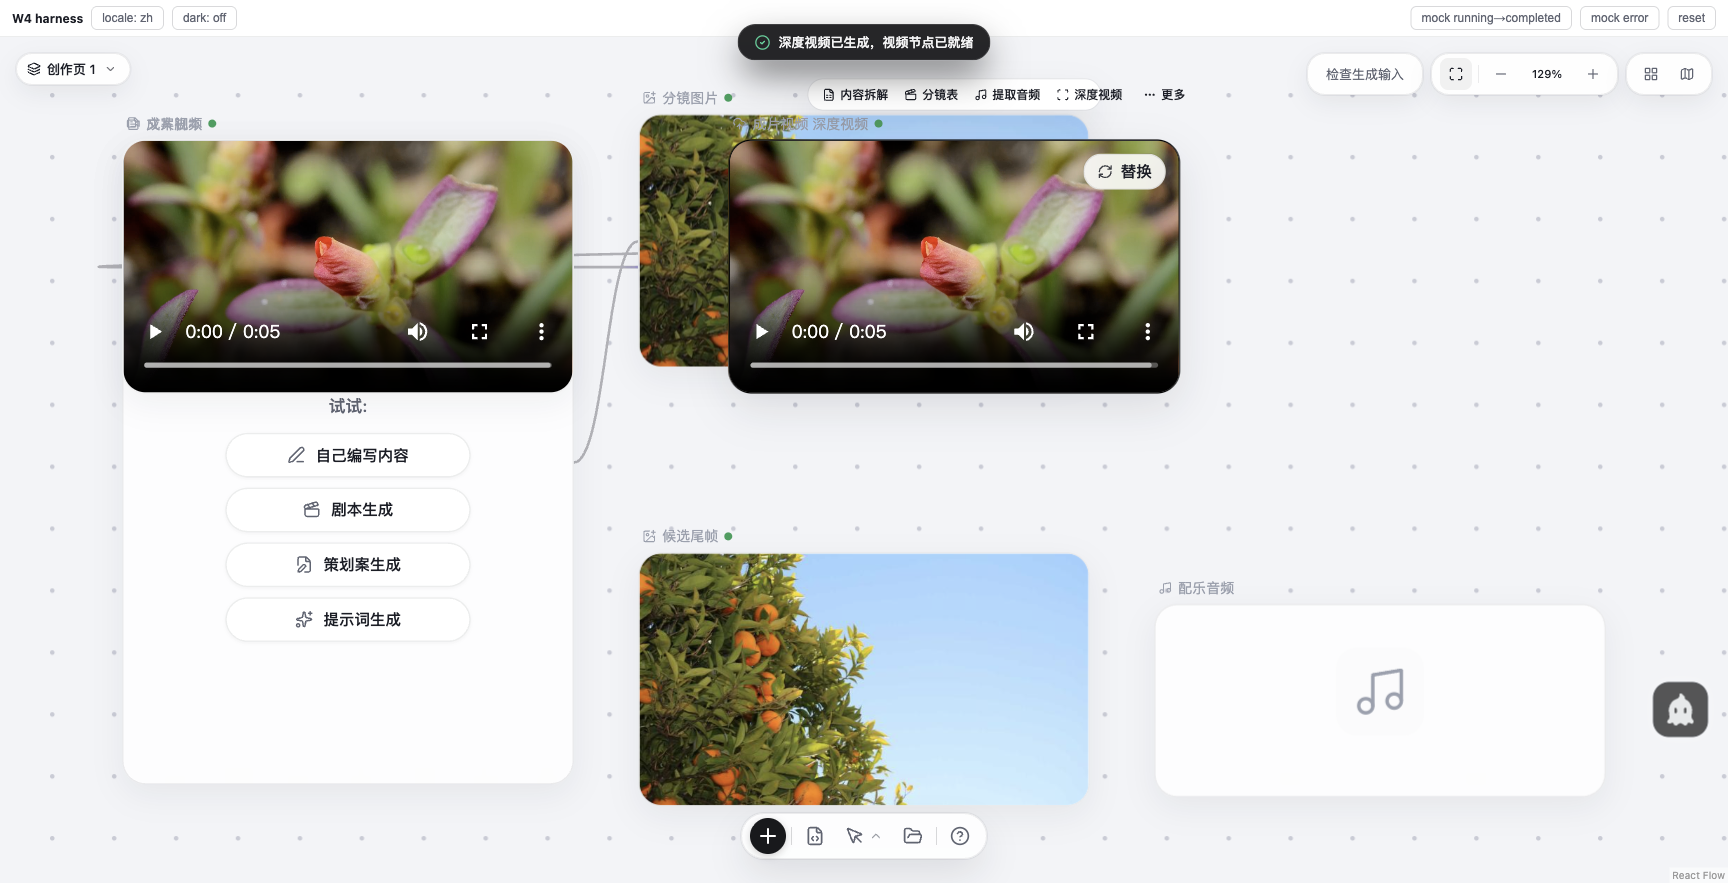
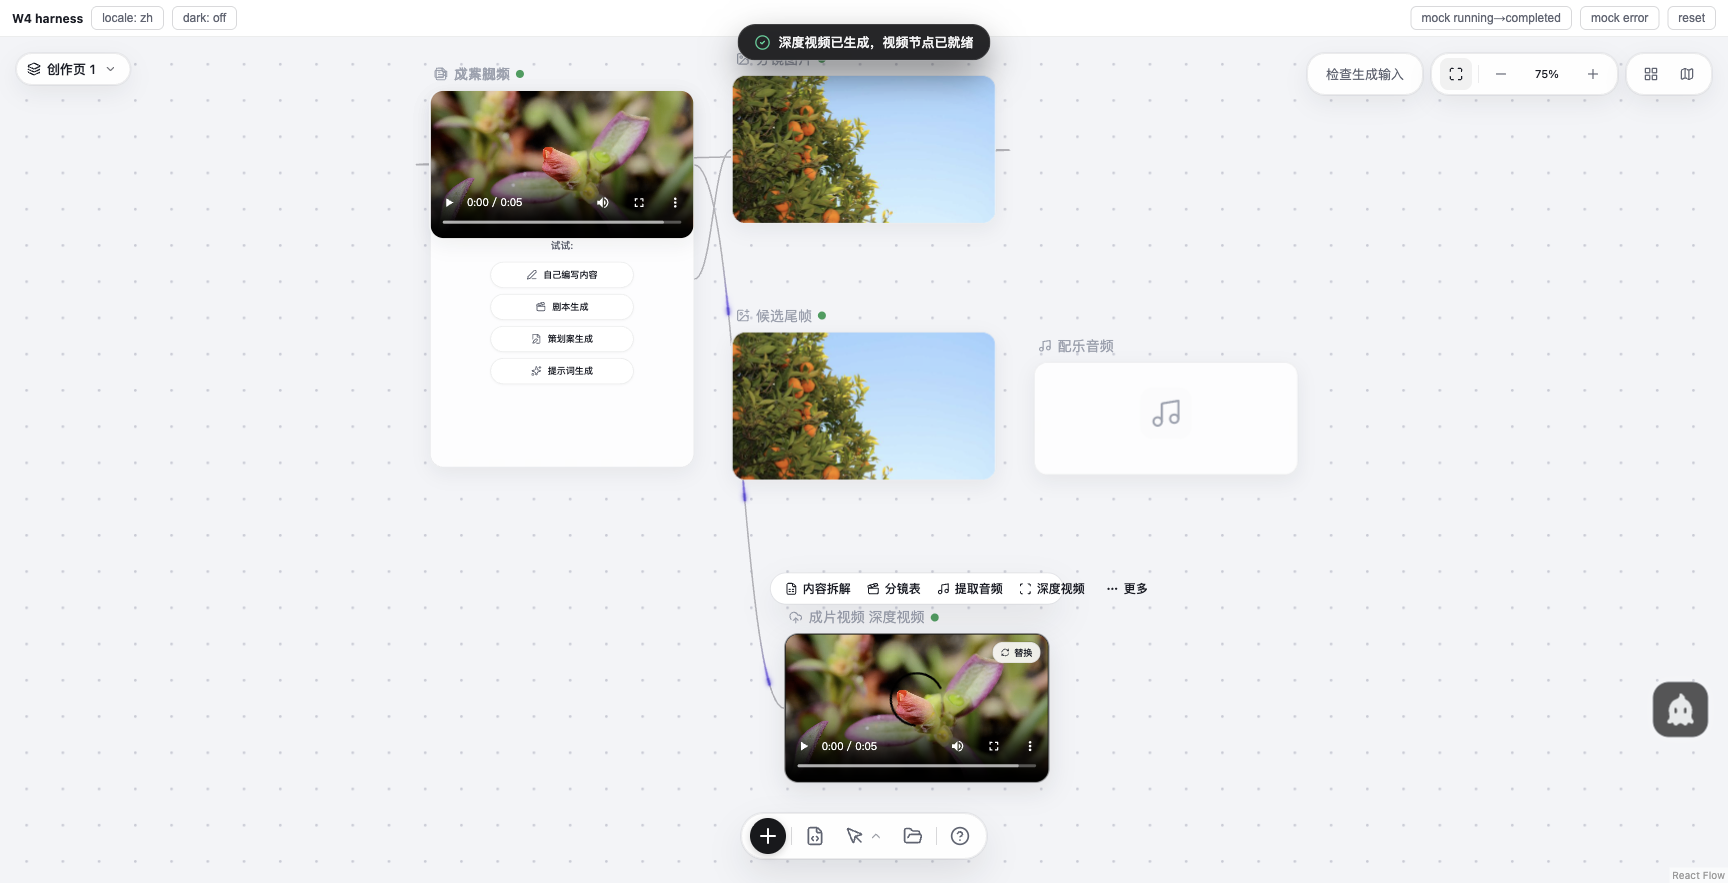
fix(workflow): 深度视频支持远程源、清理重试残留并补齐路由测试（评审修复）

diff --git a/plugins/omnimux-workflow/src/canvas/editor/utils/planVideoDepthDownstream.ts b/plugins/omnimux-workflow/src/canvas/editor/utils/planVideoDepthDownstream.ts
@@ -168,7 +168,9 @@ export function planVideoDepthProvisioning(
             status: 'generating',
             executionStatus: 'running',
             executionError: undefined,
-            depthVideoActive: true,
+            realPath: undefined,
+            mediaUrl: undefined,
+            previewUrl: undefined,
             origin: VIDEO_DEPTH_ORIGIN,
             sourceVideoNodeId: input.videoNodeId,
           },
@@ -185,21 +187,24 @@ export function planVideoDepthProvisioning(
       ? input.videoNodeWidth
       : 350;
 
-  const isOccupiedAtY = input.currentNodes.some((node) => {
-    if (!node.position) return false;
-    const isDownstream =
-      node.data?.sourceVideoNodeId === input.videoNodeId || connectedTargetIds.has(node.id);
-    if (!isDownstream) return false;
-    return Math.abs(node.position.y - input.videoPosition.y) < 60;
-  });
+  // 目标空槽：源视频右侧。与任意已有节点（不只下游）在 y 带内重叠时向下错开，
+  // 避免压住上游/无关节点。
+  const targetX = input.videoPosition.x + width + VIDEO_DEPTH_DOWNSTREAM_GAP;
+  const overlapsAnyNode = (y: number) =>
+    input.currentNodes.some((node) => {
+      if (!node.position) return false;
+      if (node.id === input.videoNodeId) return false;
+      return Math.abs(node.position.y - y) < 260 && Math.abs(node.position.x - targetX) < 420;
+    });
+  let targetY = input.videoPosition.y;
+  for (let step = 0; step < 5 && overlapsAnyNode(targetY); step += 1) {
+    targetY += 360;
+  }
 
   const newNode: VideoDepthCreatedNode = {
     id: newNodeId,
     type: 'material',
-    position: {
-      x: input.videoPosition.x + width + VIDEO_DEPTH_DOWNSTREAM_GAP,
-      y: isOccupiedAtY ? input.videoPosition.y + 360 : input.videoPosition.y,
-    },
+    position: { x: targetX, y: targetY },
     selected: true,
     data: {
       label: nodeLabel,
@@ -210,7 +215,6 @@ export function planVideoDepthProvisioning(
       status: 'generating',
       executionStatus: 'running',
       executionError: undefined,
-      depthVideoActive: true,
       origin: VIDEO_DEPTH_ORIGIN,
       sourceVideoNodeId: input.videoNodeId,
       params: {},
@@ -238,7 +242,9 @@ export function planVideoDepthSettlement(
           data: {
             executionStatus: 'error',
             executionError: input.error || '深度视频生成失败',
-            depthVideoActive: true,
+            realPath: undefined,
+            mediaUrl: undefined,
+            previewUrl: undefined,
             status: 'failed',
           },
         },
@@ -261,7 +267,6 @@ export function planVideoDepthSettlement(
           status: 'ready',
           executionStatus: 'completed',
           executionError: undefined,
-          depthVideoActive: undefined,
           realPath: result.depthPath,
           mediaUrl: result.mediaUrl,
           previewUrl: result.previewUrl,

diff --git a/plugins/omnimux-workflow/src/workflow/videoDepth/service.ts b/plugins/omnimux-workflow/src/workflow/videoDepth/service.ts
@@ -26,7 +26,7 @@ const UPSTREAM_CODE_MAP: Record<string, [string, number]> = {
 const FAILURE_MESSAGES: Record<string, string> = {
   'deps-missing':
     '本机缺少深度图 Python 依赖（numpy / opencv-python / onnxruntime）。安装后重试，或把 OMNIMUX_VIDEO_PYTHON_PATH 指向已装依赖的解释器',
-  'ffmpeg-missing': '本机缺少 ffmpeg/ffprobe，安装后重试',
+  'ffmpeg-missing': '本机缺少 ffmpeg/ffprobe，安装后重试（macOS: brew install ffmpeg）',
   timeout: '深度视频生成超时，请缩短视频后重试',
   canceled: '深度视频生成已取消',
   'invalid-request': '深度视频请求参数无效',
@@ -67,9 +67,11 @@ export function createVideoDepthService(deps: VideoDepthServiceDeps) {
     // 1. 验证工作区有效性
     deps.store.get(workspaceId);
 
-    // 2. 解析源视频物理绝对路径（与视频拆解共用同一套解析）
+    // 2. 解析源视频（与视频拆解共用同一套解析）。本地路径要求存在；远程
+    //    http(s) 地址交给 video_depth 自带的 materialize 下载，不能按本地文件 404。
     const absVideoPath = deps.resolveVideoPath(workspaceId, input.videoPath);
-    if (!absVideoPath || !existsSync(absVideoPath)) {
+    const isRemoteVideo = /^https?:\/\//i.test(String(absVideoPath || ''));
+    if (!absVideoPath || (!isRemoteVideo && !existsSync(absVideoPath))) {
       throw new VideoDepthError('video-not-found', '未找到指定视频文件', 404);
     }
 

diff --git a/plugins/omnimux-workflow/src/workflow/videoDepth/errors.ts b/plugins/omnimux-workflow/src/workflow/videoDepth/errors.ts
@@ -24,7 +24,7 @@ const FAILURES: Record<string, [number, string]> = {
     503,
     '本机缺少深度图 Python 依赖（numpy / opencv-python / onnxruntime）。安装后重试，或把 OMNIMUX_VIDEO_PYTHON_PATH 指向已装依赖的解释器',
   ],
-  'ffmpeg-missing': [503, '本机缺少 ffmpeg/ffprobe，安装后重试'],
+  'ffmpeg-missing': [503, '本机缺少 ffmpeg/ffprobe，安装后重试（macOS: brew install ffmpeg）'],
   'timeout': [504, '深度视频生成超时，请缩短视频后重试'],
   'canceled': [502, '深度视频生成已取消'],
   'depth-failed': [502, '深度视频生成失败，请重试'],

diff --git a/docs/evidence/video-depth-node-3547/README.md b/docs/evidence/video-depth-node-3547/README.md
@@ -32,6 +32,13 @@ OMNIMUX_VIDEO_PYTHON_PATH=/opt/homebrew/opt/python@3.14/bin/python3.14 \
 OMNIMUX_VIDEO_SKIP_FFMPEG=1 node --test  # 135 pass / 12 skipped
 ```
 
+## 独立评审后的修复（同轮复验）
+
+- 远程 `http(s)` 视频节点不再被 `existsSync` 误判 404，直接交给 `video_depth` 的 `materialize` 下载。
+- 派生节点放置改为对**所有**已有节点做 y 带碰撞避让（不再只避让下游节点），复验截图中不再压住上游节点。
+- 重跑/失败时清空旧 `realPath/mediaUrl/previewUrl`，避免失败卡片继续播放上一次的深度视频；移除未接线的 `depthVideoActive` 状态。
+- 补齐 route-level 测试（200 / 403 not-local / 503 deps-missing / 404 / 400）与远程 URL 服务测试。
+
 ## 边界与限制
 
 - 浏览器证据里的 `video-depth` HTTP 响应为页面内 stub：本次验证目标是画布客户端接线（胶囊 → 预建节点 → 请求 → 结算 → 播放器），真实服务端路径由 `src/workflow/videoDepth/videoDepth.test.mjs`（8/8）与真实 `video_depth` 执行证据覆盖。没有把 stub 结果说成真实模型或真实服务端时延。
